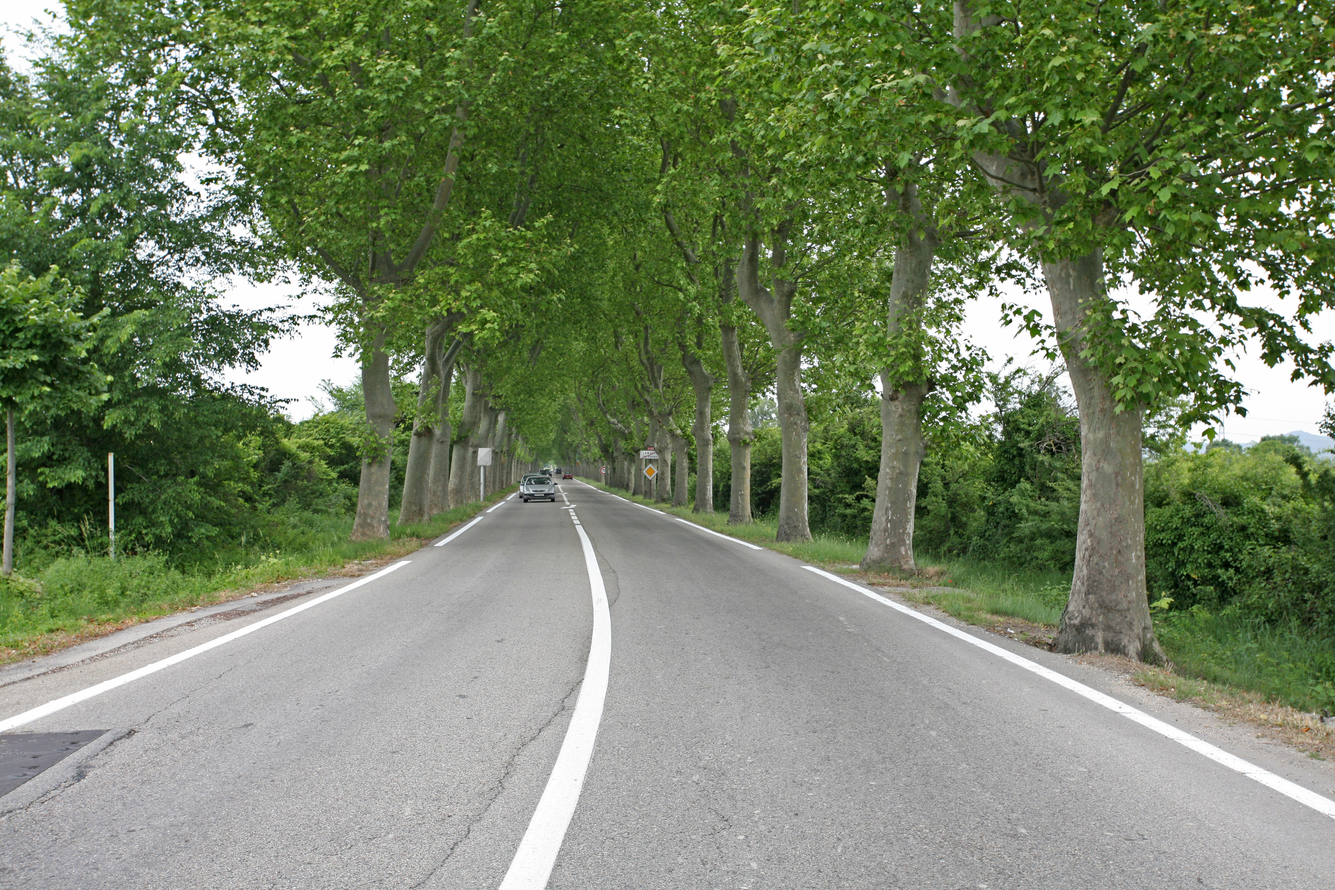
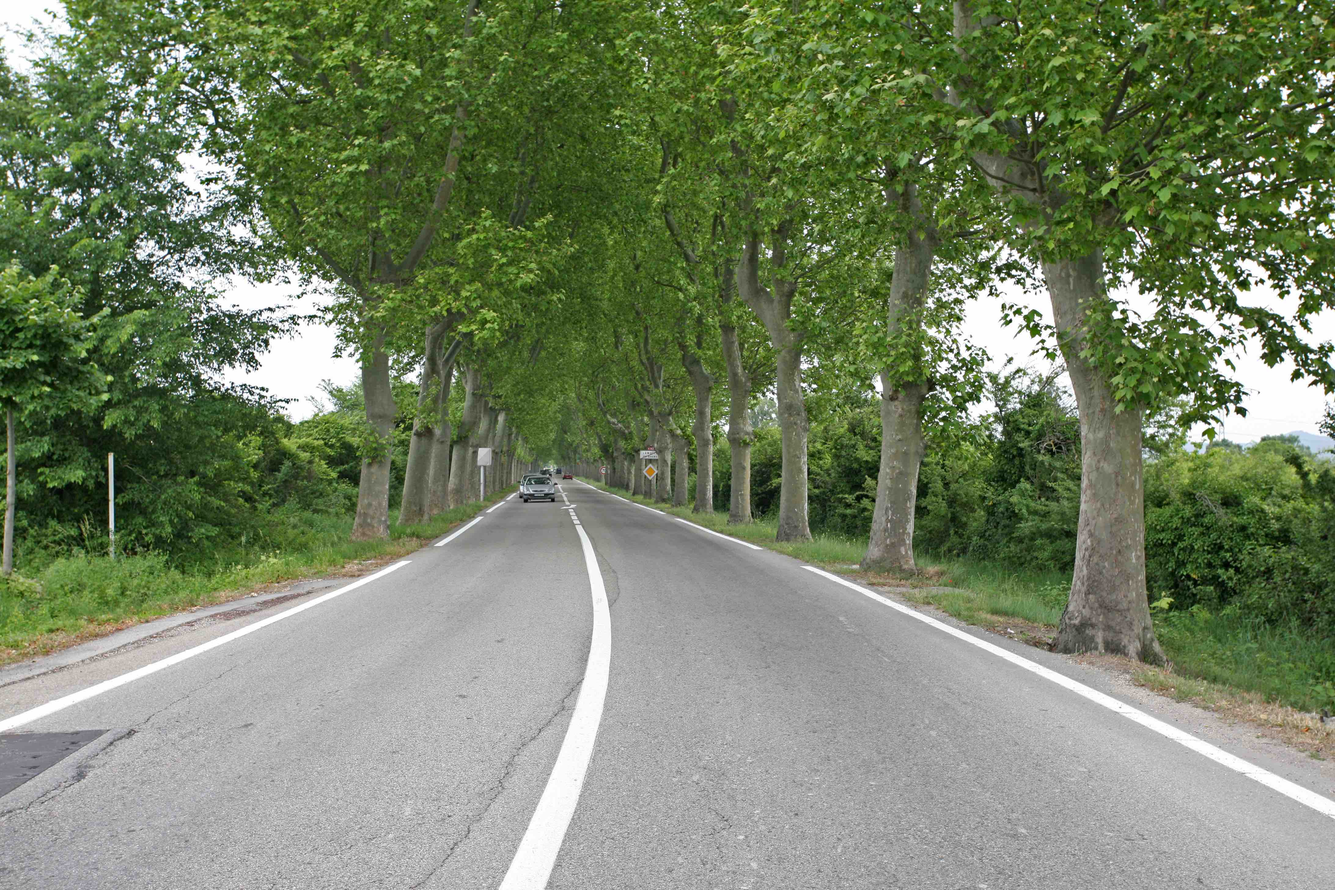
optimize pictures

diff --git a/app/pages/index.scss b/app/pages/index.scss
@@ -55,19 +55,19 @@ body {
   background-attachment: fixed;
 
   &.home {
-    background-image: url("#{$assetsPath}/pictures/background/bg-home.JPG");
+    background-image: url("#{$assetsPath}/pictures/background/bg-home-low.jpg");
   }
 
   &.collectivite {
-    background-image: url("#{$assetsPath}/pictures/background/bg-collective.jpg");
+    background-image: url("#{$assetsPath}/pictures/background/bg-collective-low.jpg");
   }
 
   &.promoteurs {
-    background-image: url("#{$assetsPath}/pictures/background/bg-promoteurs.jpg");
+    background-image: url("#{$assetsPath}/pictures/background/bg-promoteurs-low.jpg");
   }
 
   &.gamme {
-    background-image: url("#{$assetsPath}/pictures/background/bg-gamme.JPG");
+    background-image: url("#{$assetsPath}/pictures/background/bg-gamme-low.jpg");
   }
 }
 

diff --git a/app/modules/promoteurs/index.js b/app/modules/promoteurs/index.js
@@ -13,7 +13,7 @@ const Promoteurs = () => {
           <Grid>
             <Cell size={12}>
               <img
-                src={`${dirPath}promoteur-1.jpg`}
+                src={`${dirPath}promoteur-1-low.jpg`}
                 alt={""}
                 className={"illustration-1 zoom"}
               />
@@ -72,7 +72,7 @@ const Promoteurs = () => {
             </Cell>
             <Cell size={6}>
               <img
-                src={`${dirPath}promoteur-4.jpg`}
+                src={`${dirPath}promoteur-4-low.jpg`}
                 alt={""}
                 className={"illustration-4"}
               />
